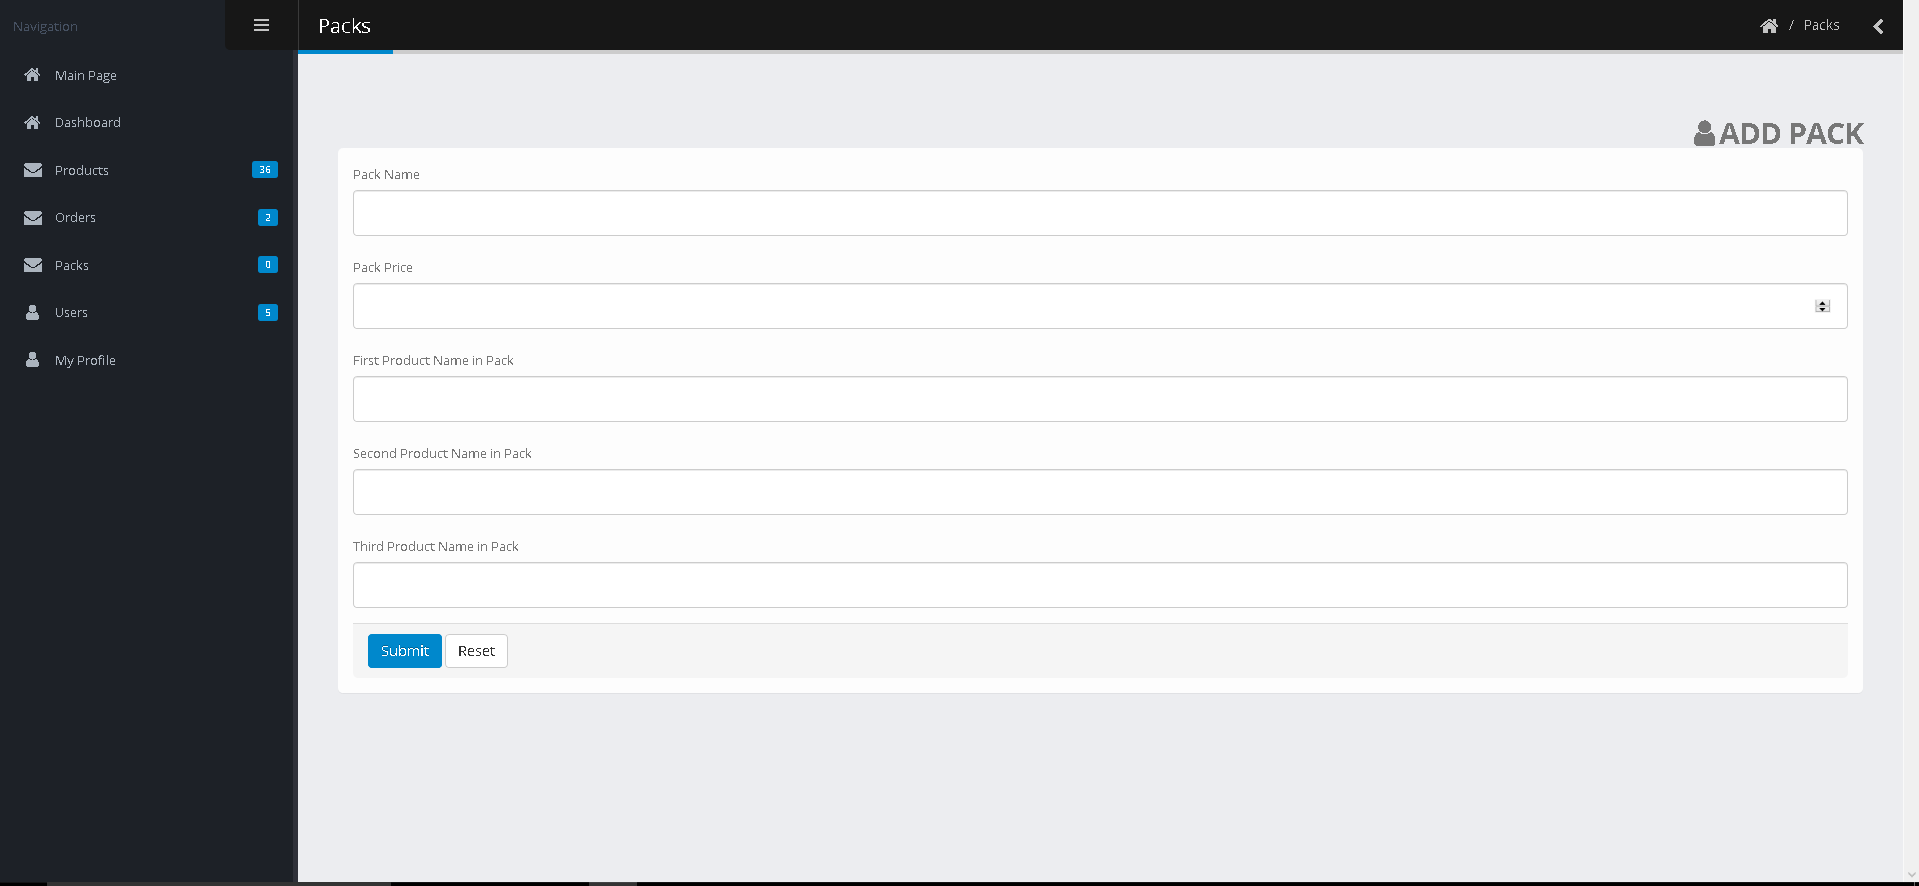
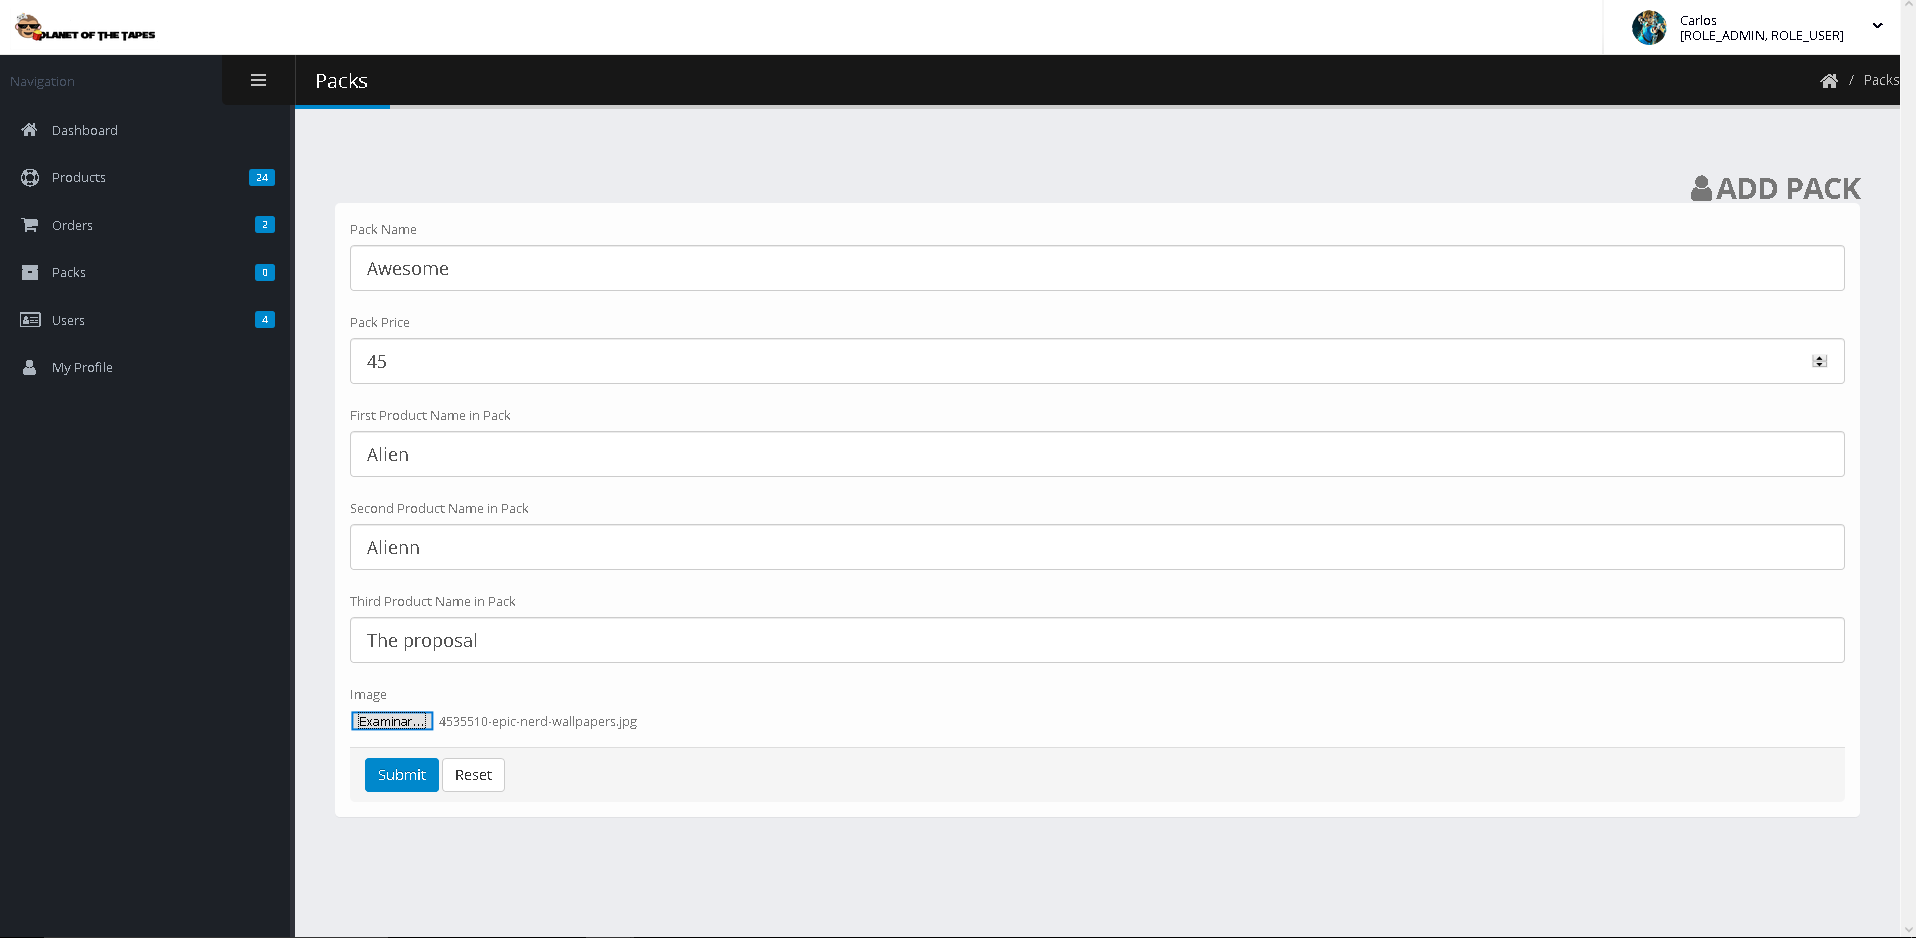
-Changes in README  and created packs entity (not cart yet) - Minor changes

diff --git a/src/main/resources/templates/product.html b/src/main/resources/templates/product.html
@@ -10,7 +10,8 @@
         {{>header}}
         
         <div class="container margin-custom">
-
+			
+			{{#producto}}
             <div class="row">
                 <div class="col-md-12">
                     <div class="portfolio-title">
@@ -82,7 +83,7 @@
 
                 </div>
             </div>
-
+			
             <div class="row">
                 <div class="col">
 
@@ -98,7 +99,81 @@
 
                 </div>
             </div>
+			{{/producto}}
+			
+			{{#pack}}
+			<div class="row">
+                <div class="col-md-12">
+                    <div class="portfolio-title">
+                        <div class="row">
+                            <div class="col-lg-10 text-center">
+                                <h2 class="mb-0">{{pack.name}}</h2>
+                            </div>
+                        </div>
+                    </div>
 
+                    <hr class="tall">
+                </div>
+
+                <div class="col-lg-4" data-appear-animation="fadeInLeft" data-appear-animation-delay="0" data-appear-animation-duration="0.5s">
+                    <div class="owl-carousel owl-theme" data-plugin-options="{'items': 1, 'margin': 10, 'animateOut': 'fadeOut', 'autoplay': true, 'autoplayTimeout': 3000}">
+                        <div>
+                            <span class="img-thumbnail d-block">
+								<img alt="" class="img-fluid" src="/img/ProductImages/{{pack.img}}">
+							</span>
+                        </div>
+                    </div>
+                </div>
+
+                <div class="col-lg-8" data-appear-animation="fadeInRight" data-appear-animation-delay="0" data-appear-animation-duration="0.5s">
+
+                    <div class="portfolio-info">
+                        <div class="row">
+                            <div class="col-md-6" style="font-size:24px;" >
+                                <h5>Products in this pack:</h5>
+                                <ul>
+                            		{{#productspack}}
+                            			<li>{{name}}</li>
+                            		{{/productspack}}
+                            
+                            	</ul>
+                            </div>
+                        </div>
+                    </div>
+					<br>
+                    <p class="mt-2" style="font-size:24px;">This awesome pack contains 3 of our best products!!!!</p>
+
+                    <ul class="portfolio-details">
+                       
+                        <li>
+                        <div class="buy-pack">
+                        <h5>Price</h5>
+                            <a>{{pack.price}}</a>
+                        </div>
+                        <a href="/{{pack.id}}/buy" style="font-size:24px;" class="btn btn-primary pt-2 pb-2 pr-3 pl-3">Buy</a>
+                        </li>
+                    </ul>
+
+                </div>
+            </div>
+			
+            <div class="row">
+                <div class="col">
+
+                    <hr class="tall mt-4">
+
+                    <h4 class="mb-3 text-uppercase">Related Packs</h4>
+
+                    <div class="row">
+                    
+                       {{#relate}} {{>itempacks}} {{/relate}}  
+                       
+                   </div>
+
+                </div>
+            </div>
+            {{/pack}}
+			
 
 
 

diff --git a/src/main/resources/templates/admin/admin-userTable.html b/src/main/resources/templates/admin/admin-userTable.html
@@ -10,7 +10,7 @@
 		<a href="#" class="hidden on-editing cancel-row"><i class="fa fa-times"></i></a>
 		<a href="#" class="hidden on-default edit-row"><i class="fa fa-pencil"></i></a>
 		
-		<button class="btn btn-primary btn-lg" data-toggle="modal" data-target="#defaultModal">
+		<button class="btn btn-primary btn-lg" data-toggle="modal" data-target="#defaultModal"  onclick="modalRemove({{id}});">
 			<i class="fa fa-trash-o"></i>
 		</button>
 		<div class="modal fade" id="defaultModal" tabindex="-1" role="dialog" aria-labelledby="defaultModalLabel" aria-hidden="true">
@@ -21,7 +21,7 @@
 						<button type="button" class="close" data-dismiss="modal" aria-hidden="true">&times;</button>
 					</div>
 					<div class="modal-footer">
-						<a href="/admin/user/remove/{{id}}" class="on-default remove-row">
+						<a href="/admin/user/remove/{{id}}" class="on-default remove-row" id="modalConfirm">
 							<button type="button" class="btn btn-light">
 								<i class="fa fa-trash-o"></i> Confirm
 							</button>

diff --git a/src/main/resources/templates/admin/admin-add-pack-action.html b/src/main/resources/templates/admin/admin-add-pack-action.html
@@ -38,7 +38,7 @@
 									<h2 class="title text-uppercase text-weight-bold m-none"><i class="fa fa-user mr-xs"></i>Add pack</h2>
 								</div>
 								<div class="panel-body">
-									<form action="/admin-add-pack-action" method="post">
+									<form action="/admin-add-pack-action" method="post" enctype="multipart/form-data">
 										<div class="form-group mb-lg">
 											<label>Pack Name</label>
 											<input name="namePack" type="text" class="form-control input-lg" />
@@ -62,6 +62,11 @@
 										<div class="form-group mb-lg">
 											<label>Third Product Name in Pack</label>
 											<input name="nameP3" type="text" class="form-control input-lg" />
+										</div>
+										
+										<div class="form-group mb-lg">
+											<label>Image</label>
+											<input type="file" name="img" required/>
 										</div>
 										
 										<footer class="panel-footer">

diff --git a/src/main/resources/templates/admin/admin-packtable.html b/src/main/resources/templates/admin/admin-packtable.html
@@ -11,7 +11,7 @@
 				<i class="fa fa-pencil"></i>
 			</button>
 		</a>
-		<button class="btn btn-primary btn-lg" data-toggle="modal" data-target="#defaultModal">
+		<button class="btn btn-primary btn-lg" data-toggle="modal" data-target="#defaultModal"  onclick="modalRemove({{id}});">
 			<i class="fa fa-trash-o"></i>
 		</button>
 		<div class="modal fade" id="defaultModal" tabindex="-1" role="dialog" aria-labelledby="defaultModalLabel" aria-hidden="true">
@@ -22,7 +22,7 @@
 						<button type="button" class="close" data-dismiss="modal" aria-hidden="true">&times;</button>
 					</div>
 					<div class="modal-footer">
-						<a href="/admin/pack/remove/{{id}}" class="on-default remove-row">
+						<a href="/admin/pack/remove/{{id}}" class="on-default remove-row" id="modalConfirm">
 							<button type="button" class="btn btn-light">
 								<i class="fa fa-trash-o"></i> Confirm
 							</button>

diff --git a/src/main/resources/templates/index.html b/src/main/resources/templates/index.html
@@ -162,6 +162,18 @@
                 </div>
             </div>
             <!-- END VIDEOGAMES -->
+            <!-- PACKS -->
+            <div class="heading heading-border heading-middle-border heading-middle-border-center">
+            	<div class="container">
+                    <h1><strong>Packs</strong></h1>
+                    <a style="margin-top:15px;" class="btn btn-3d btn-primary mb-2" href="mplist?enlace=4">Show all Packs!</a>	
+	                <div class="sort-destination-loader sort-destination-loader-showing mt-4 pt-2">
+	                    <div class="row portfolio-list sort-destination" data-sort-id="portfolio">
+	                        {{#packs}} {{>itempacks}} {{/packs}} 
+	                    </div>
+	                </div>
+                </div>
+            </div>
 
         </div>
         <!-- END MAIN -->

diff --git a/src/main/resources/templates/itempacks.html b/src/main/resources/templates/itempacks.html
@@ -1,0 +1,22 @@
+<head>
+<meta http-equiv="Content-type" content="text/html; charset=utf-8" />
+</head>
+<div class="col-md-3 col-sm-3 col-lg-3 isotope-item" data-appear-animation="fadeIn" data-appear-animation-delay="0" data-appear-animation-duration="1.5s">
+  	<div class="portfolio-item">
+		<a href="/pack/{{id}}">
+			<span class="thumb-info thumb-info-lighten">
+				<span class="thumb-info-wrapper">
+
+					<img src="/img/ProductImages/{{img}}" class="img-fluid"/>
+
+					<span class="thumb-info-title">
+						<span class="thumb-info-inner">{{name}}</span>
+					</span>
+					<span class="thumb-info-action">
+						<span class="thumb-info-action-icon"><i class="fa fa-link"></i></span>
+					</span>
+				</span>
+			</span>
+		</a>
+    </div>
+</div>

diff --git a/src/main/resources/templates/header.html b/src/main/resources/templates/header.html
@@ -72,6 +72,11 @@
 												</a>
                                         </li>
                                         <li class="">
+                                            <a class="nav-link" href="/mplist?enlace=4">
+													Packs
+												</a>
+                                        </li>
+                                        <li class="">
                                             <a class="nav-link" href="/contact">
 													Contact
 												</a>

diff --git a/src/main/resources/templates/plist.html b/src/main/resources/templates/plist.html
@@ -27,6 +27,7 @@
             <div class="sort-destination-loader sort-destination-loader-showing mt-4 pt-2">
                 <div id="portfolioLoadMoreWrapper" class="row portfolio-list sort-destination" data-sort-id="portfolio" data-total-pages="3">
                     {{#products}} {{>items}} {{/products}}
+                    {{#packs}} {{>itempacks}} {{/packs}}
                 </div>          
 
                 <div id="portfolioLoadMoreBtnWrapper" class="row">

diff --git a/src/main/java/com/planetofthetapes/controller/PlistController.java b/src/main/java/com/planetofthetapes/controller/PlistController.java
@@ -27,8 +27,10 @@ import org.springframework.web.bind.annotation.ResponseBody;
 import org.springframework.web.multipart.MultipartFile;
 import org.springframework.web.servlet.mvc.support.RedirectAttributes;
 
+import com.planetofthetapes.entity.Pack;
 import com.planetofthetapes.entity.Product;
 import com.planetofthetapes.entity.User;
+import com.planetofthetapes.repository.PackRepository;
 import com.planetofthetapes.repository.ProductRepository;
 import com.planetofthetapes.repository.UserRepository;
 
@@ -39,9 +41,11 @@ public class PlistController extends MasterService {
 	private ProductRepository productRepository;
 	@Autowired
 	private UserRepository userRepository;
+	@Autowired
+	private PackRepository packRepository;
 	
 	@RequestMapping("/mplist")
-    public String mostrarplist(Model model, @RequestParam int enlace, HttpServletRequest request, RedirectAttributes redirectAttrs){
+    public String mplist(Model model, @RequestParam int enlace, HttpServletRequest request, RedirectAttributes redirectAttrs){
 		this.session(model, request, redirectAttrs);
 		
 		String type = "";
@@ -60,10 +64,29 @@ public class PlistController extends MasterService {
 			Page<Product> products = productRepository.findGroupByType("Videogames", new PageRequest(0, 8));
 			model.addAttribute("products", products);
 		}
+		
+		if(enlace == 4) {
+			type = "Packs";
+			model.addAttribute("packs", packRepository.findAll());
+		}
         
 		model.addAttribute("type", type);
         return "plist";
     }
+	
+	/*@RequestMapping("/packlist")
+    public String mpacklist(Model model, @RequestParam int enlace, HttpServletRequest request, RedirectAttributes redirectAttrs){
+		this.session(model, request, redirectAttrs);
+		
+		String type = "";
+		if(enlace == 1) {
+			type = "Packs";
+			model.addAttribute("Packs", packRepository.findAll());
+		}
+        
+		model.addAttribute("type", type);
+        return "packList";
+    }*/
 	
 	@RequestMapping(value = "/loadmore")
 	public String moreBooks(Model model, @RequestParam int page, @RequestParam String type, HttpServletRequest request, RedirectAttributes redirectAttrs) {

diff --git a/src/main/java/com/planetofthetapes/controller/ProductController.java b/src/main/java/com/planetofthetapes/controller/ProductController.java
@@ -21,8 +21,10 @@ import org.springframework.web.bind.annotation.RequestParam;
 import org.springframework.web.multipart.MultipartFile;
 import org.springframework.web.servlet.mvc.support.RedirectAttributes;
 
+import com.planetofthetapes.entity.Pack;
 import com.planetofthetapes.entity.Product;
 import com.planetofthetapes.entity.User;
+import com.planetofthetapes.repository.PackRepository;
 import com.planetofthetapes.repository.ProductRepository;
 import com.planetofthetapes.repository.UserRepository;
 
@@ -31,6 +33,8 @@ public class ProductController extends MasterService {
 	
 	@Autowired
 	private ProductRepository productRepository;
+	@Autowired
+	private PackRepository packRepository;
 	
 	
 	@RequestMapping("product/{id}")
@@ -42,6 +46,18 @@ public class ProductController extends MasterService {
 		Page<Product> products = productRepository.findByGenreAndType(producto.getGenre(), producto.getType(),new PageRequest(0, 4));
 		model.addAttribute("producto",producto);
 		model.addAttribute("relate",products );
+		return "product";
+	}
+	
+	@RequestMapping("pack/{id}")
+	public String pack(Model model, @PathVariable Integer id, HttpServletRequest request, RedirectAttributes redirectAttrs) {
+		
+		this.session(model, request, redirectAttrs);
+		
+		Pack pack = packRepository.findOne(id);
+		model.addAttribute("pack", pack);
+		model.addAttribute("relate",packRepository.findAll());
+		model.addAttribute("productspack", pack.getProducts());
 		return "product";
 	}
 	

diff --git a/src/main/java/com/planetofthetapes/entity/DataExamples.java b/src/main/java/com/planetofthetapes/entity/DataExamples.java
@@ -35,6 +35,8 @@ public class DataExamples {
 		User user1, user2, user3, user4;
 		Product prod1, prod2, prod3, prod4, prod5, prod6, prod7, prod8, prod9, prod10, prod11, prod12, prod100, prod101,
 				prod102, prod103, prod104, prod105, prod200, prod201, prod202, prod203, prod204, prod205;
+		
+		Pack packp, packg;
 
 		// Users creation
 
@@ -240,20 +242,30 @@ public class DataExamples {
 		user1.getOrders().add(order2);
 		userRepository.save(user1);
 		
+		//PACKS
+		List<Product> gamelist = new ArrayList<Product>();
+		List<Product> filmlist = new ArrayList<Product>();
 		
-		
-		
-			
-		/*List<Product> filmlist = new ArrayList<Product>();
-		
-		List<POrder> orderlist = new ArrayList<POrder>();
-		
+		gamelist.add(prod200);
+		gamelist.add(prod201);
+		gamelist.add(prod205);
 		
 		filmlist.add(prod1);
 		filmlist.add(prod2);
 		filmlist.add(prod3);
-		filmlist.add(prod4);
-	
+		
+		packp = new Pack("Movies Deal",35,"packi.jpg");
+		packp.setProducts(filmlist);
+		
+		packg = new Pack("Games Deal", 40, "packo.jpg");
+		packg.setProducts(gamelist);
+		
+		packRepository.save(packp);
+		packRepository.save(packg);
+		
+		
+			
+		/*
 		
 <<<<<<< HEAD
 		POrder order2 = new POrder("Payed", "Credit Card", "Buy", 80.00, user3);

diff --git a/src/main/java/com/planetofthetapes/controller/AdminController.java b/src/main/java/com/planetofthetapes/controller/AdminController.java
@@ -113,7 +113,7 @@ public class AdminController extends MasterService{
 	
 	@RequestMapping("/admin-add-pack-action")
 	public String addPackAction(Model model, HttpServletRequest request, RedirectAttributes redirectAttrs, @RequestParam String namePack, @RequestParam String nameP1,
-			@RequestParam String nameP2, @RequestParam String nameP3, @RequestParam Integer price) {
+			@RequestParam String nameP2, @RequestParam String nameP3, @RequestParam Integer price, @RequestParam MultipartFile img) {
 		
 		this.session(model, request, redirectAttrs);
 		
@@ -130,6 +130,21 @@ public class AdminController extends MasterService{
 		Pack p = new Pack(namePack, price, l);
 		
 		packRepository.save(p);
+		
+		String imgName = p.getId() + ".jpg";
+		if (!img.isEmpty()) {
+			try {
+				File imgFolder = new File("src/main/resources/static/img/ProductImages");
+				if (!imgFolder.exists()) {
+					imgFolder.mkdirs();
+				}
+				File uploadedImage = new File(imgFolder.getAbsolutePath(), imgName);
+				img.transferTo(uploadedImage);
+			} catch (Exception e) {
+			}
+			p.setImg(imgName);
+			packRepository.save(p);
+		}
 		
 		redirectAttrs.addFlashAttribute("messages", "Added new pack.");
 
